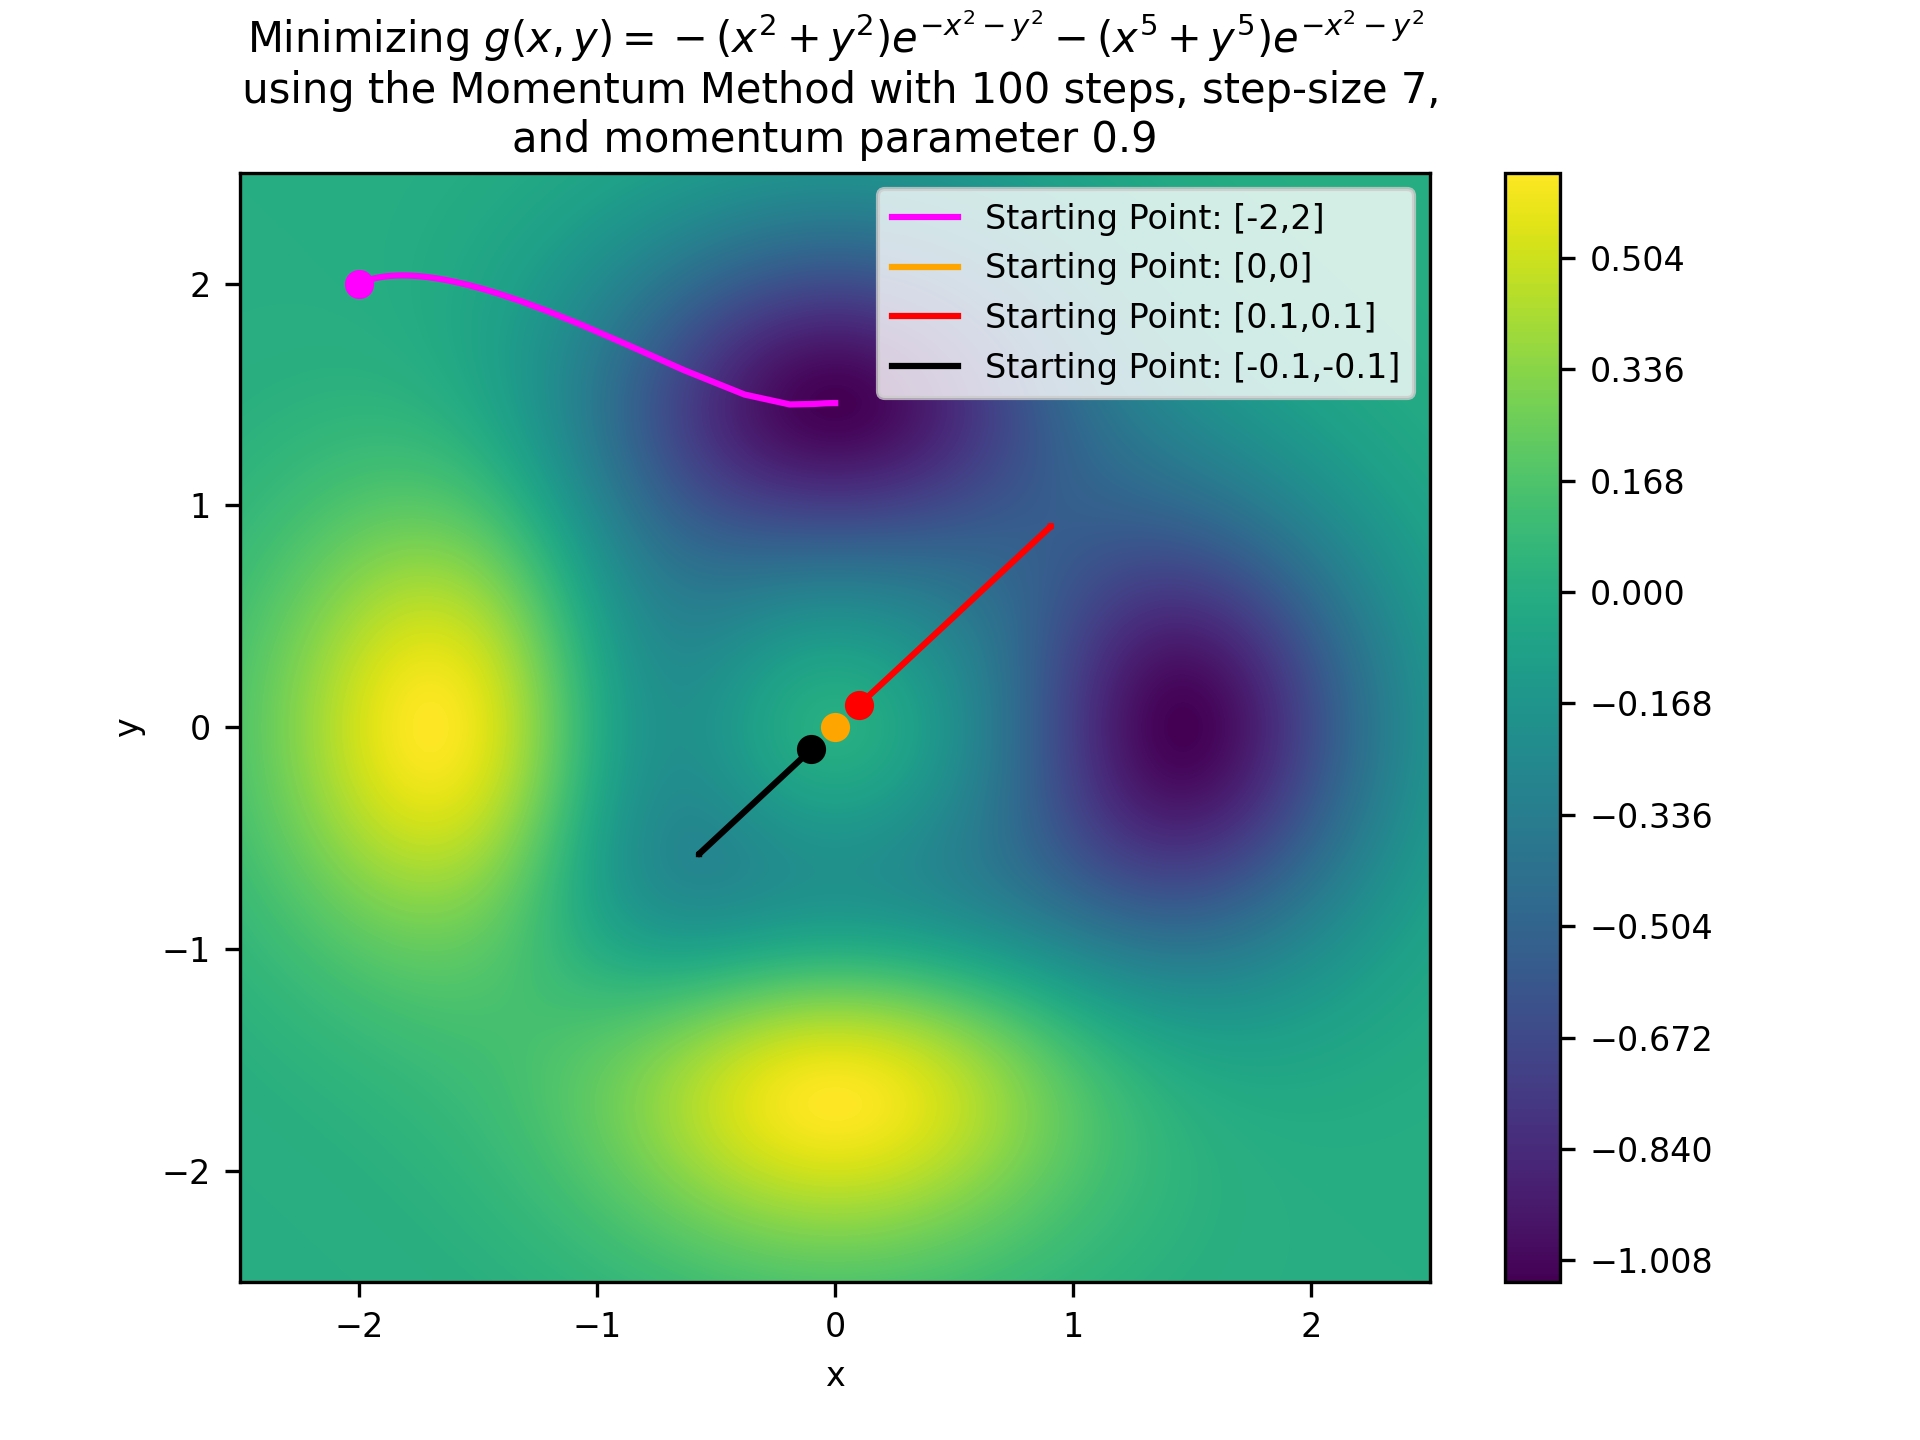
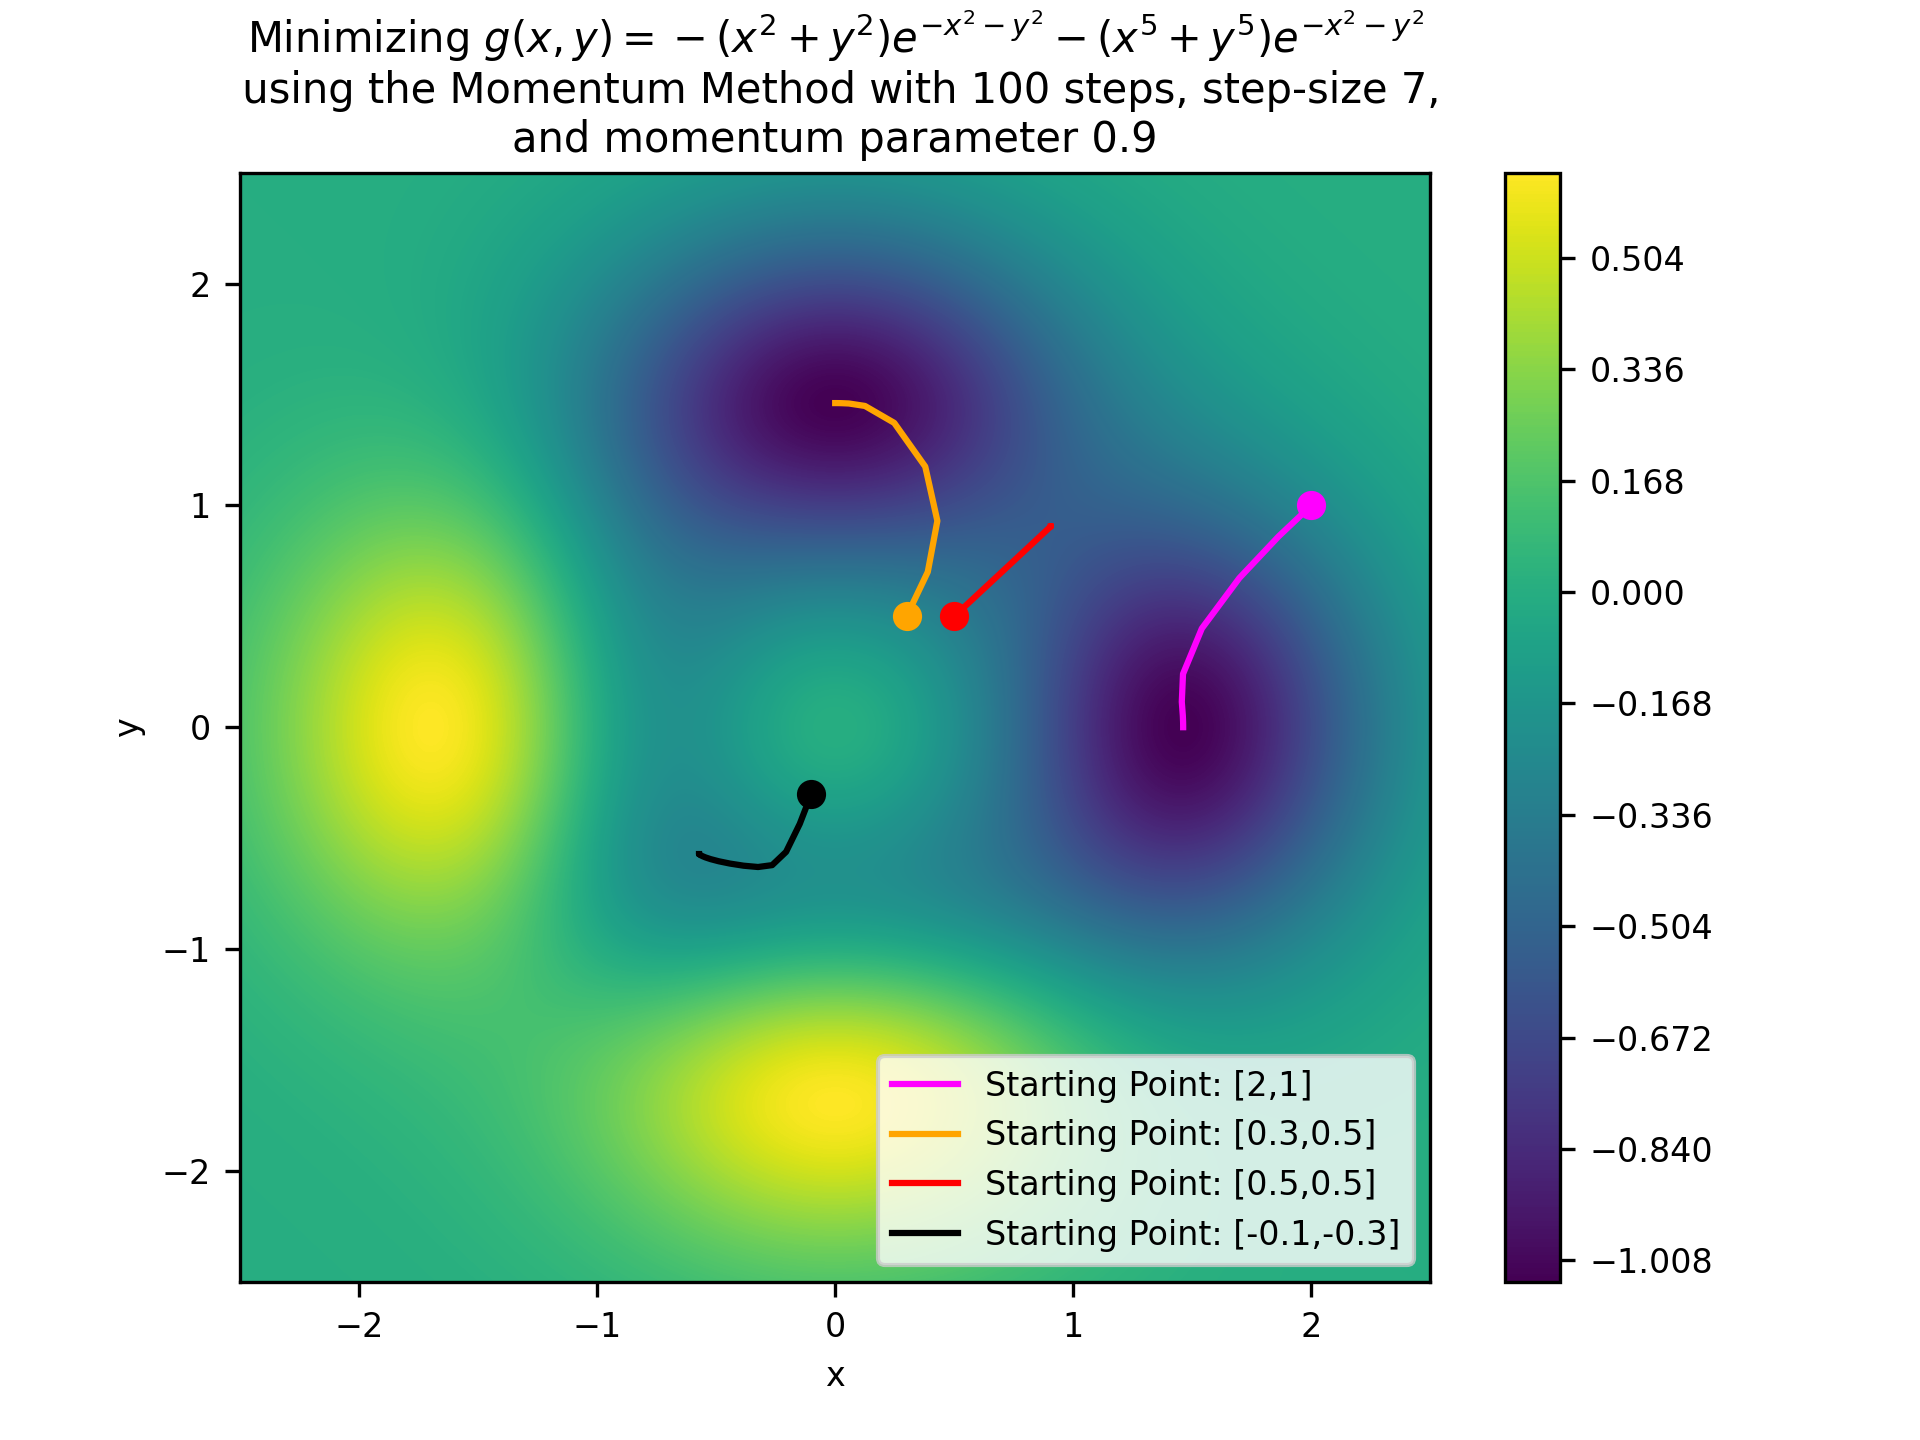
change some starting points

diff --git a/Minimizing g(x,y) using newton.py b/Minimizing g(x,y) using newton.py
@@ -45,7 +45,7 @@ def newton (start_x, start_y):
     previous_guess_x = start_x
     previous_guess_y = start_y
     historic_steps = np.array([start_x,start_y])
-    step_size = 1
+    step_size = 0.1
     i = 1
     while i <= number_steps:
         grad = np.array([dfdx(previous_guess_x,previous_guess_y),dfdy(previous_guess_x,previous_guess_y)])
@@ -62,8 +62,8 @@ def newton (start_x, start_y):
 contour_plot = plt.figure(2)
 
 # Plotting minimization for different starting points
-starting_points = [[-2,2], [0,0], [0.1,0.1], [0, 1.2]]
-colors = ["magenta", "orange", "black", "red"]
+starting_points = [[2,1], [0.3,0.5], [0.5,0.5], [-0.1, -0.3], [0.4,1.8]]
+colors = ["magenta", "orange", "black", "red", "cyan"]
 for (start_x, start_y), color in zip(starting_points, colors):
     historic_steps = newton (start_x, start_y)
     plt.plot(historic_steps[:,0], historic_steps[:,1], color = color, label = f"Starting Point: [{start_x},{start_y}]")
@@ -75,12 +75,12 @@ plt.colorbar()
 plt.xlabel('x')
 plt.ylabel('y')
 g = r"$g(x,y) = -(x^2+y^2)e^{-x^2-y^2}-(x^5+y^5)e^{-x^2-y^2}$"
-plt.title(r"Minimizing "+ g + "\n using Newton's method with 100 steps and step-size 0.2", size = 10, pad = 10)
+plt.title(r"Minimizing "+ g + "\n using Newton's method with 100 steps and step-size 0.1", size = 10, pad = 10)
 
 plt.xlim(x_min,x_max)
 plt.ylim(y_min,y_max)
 
-plt.legend()
+plt.legend(loc = "lower right")
 
 plt.savefig(f"results/minimize g with newton.png", dpi = 300)
 

diff --git a/Minimizing g(x,y) using steepest descent.py b/Minimizing g(x,y) using steepest descent.py
@@ -47,7 +47,7 @@ def steepest_descent(start_x, start_y):
     return historic_steps
 
 # Plotting minimization for different starting points
-starting_points = [[-2,2], [0,0], [0.1,0.1], [-0.1, -0.1]]
+starting_points = [[2,1], [0.3,0.5], [0.5,0.5], [-0.1, -0.3]]
 colors = ["magenta", "orange", "red", "black"]
 for (start_x, start_y), color in zip(starting_points, colors):
     historic_steps = steepest_descent(start_x, start_y)
@@ -65,7 +65,7 @@ plt.title(r"Minimizing "+ g + "\n using Steepest Descent with 100 steps and step
 plt.xlim(x_min,x_max)
 plt.ylim(y_min,y_max)
 
-plt.legend()
+plt.legend(loc = "lower right")
 
 plt.savefig(f"results/minimize g with steepest descent.png", dpi = 300)
 

diff --git a/Minimizing g(x,y) using momentum.py b/Minimizing g(x,y) using momentum.py
@@ -52,7 +52,7 @@ def momentum(start_x, start_y):
     return historic_steps
 
 # Plotting minimization for different starting points
-starting_points = [[-2,2], [0,0], [0.1,0.1], [-0.1, -0.1]]
+starting_points = [[2,1], [0.3,0.5], [0.5,0.5], [-0.1, -0.3]]
 colors = ["magenta", "orange", "red", "black"]
 for (start_x, start_y), color in zip(starting_points, colors):
     historic_steps = momentum(start_x, start_y)
@@ -70,7 +70,7 @@ plt.title(r"Minimizing "+ g + "\n using the Momentum Method with 100 steps, step
 plt.xlim(x_min,x_max)
 plt.ylim(y_min,y_max)
 
-plt.legend()
+plt.legend(loc = "lower right")
 plt.margins(x=50)
 
 plt.savefig(f"results/minimize g with momentum.png", dpi = 300)
